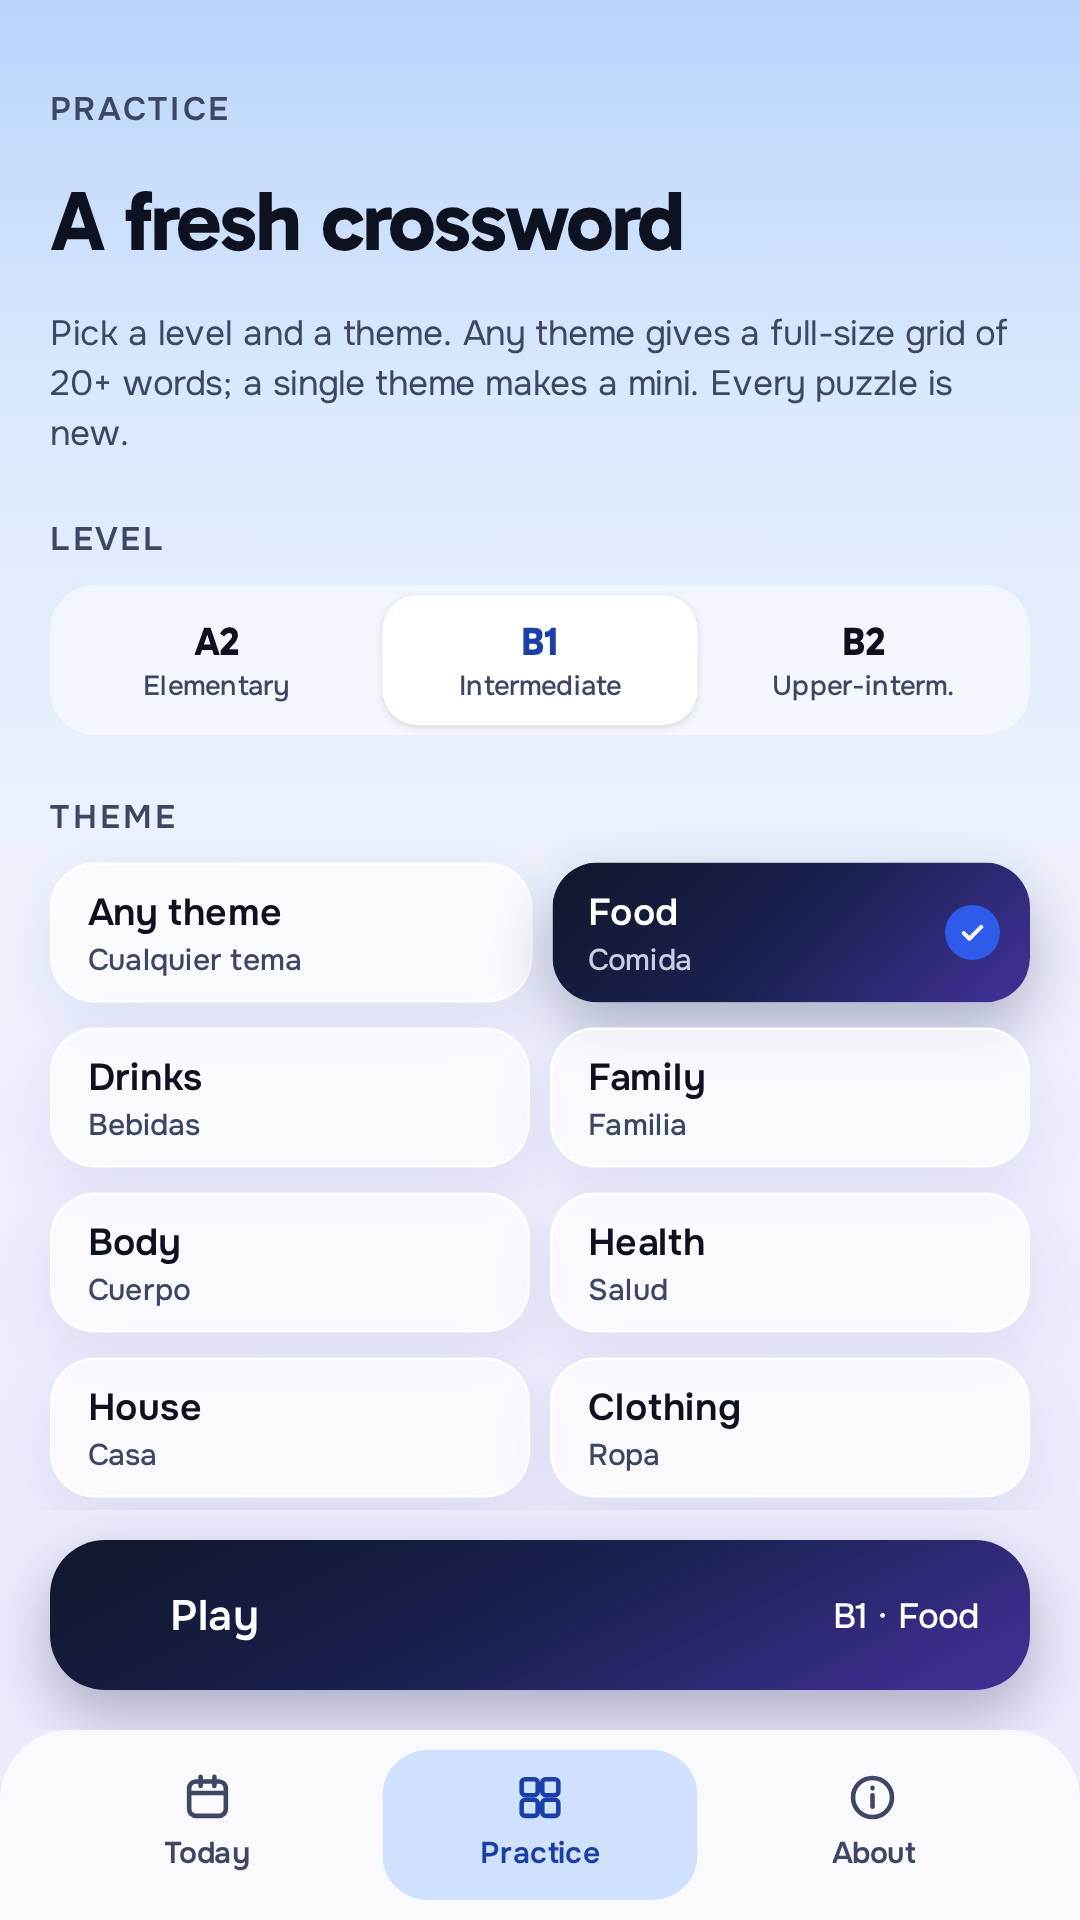
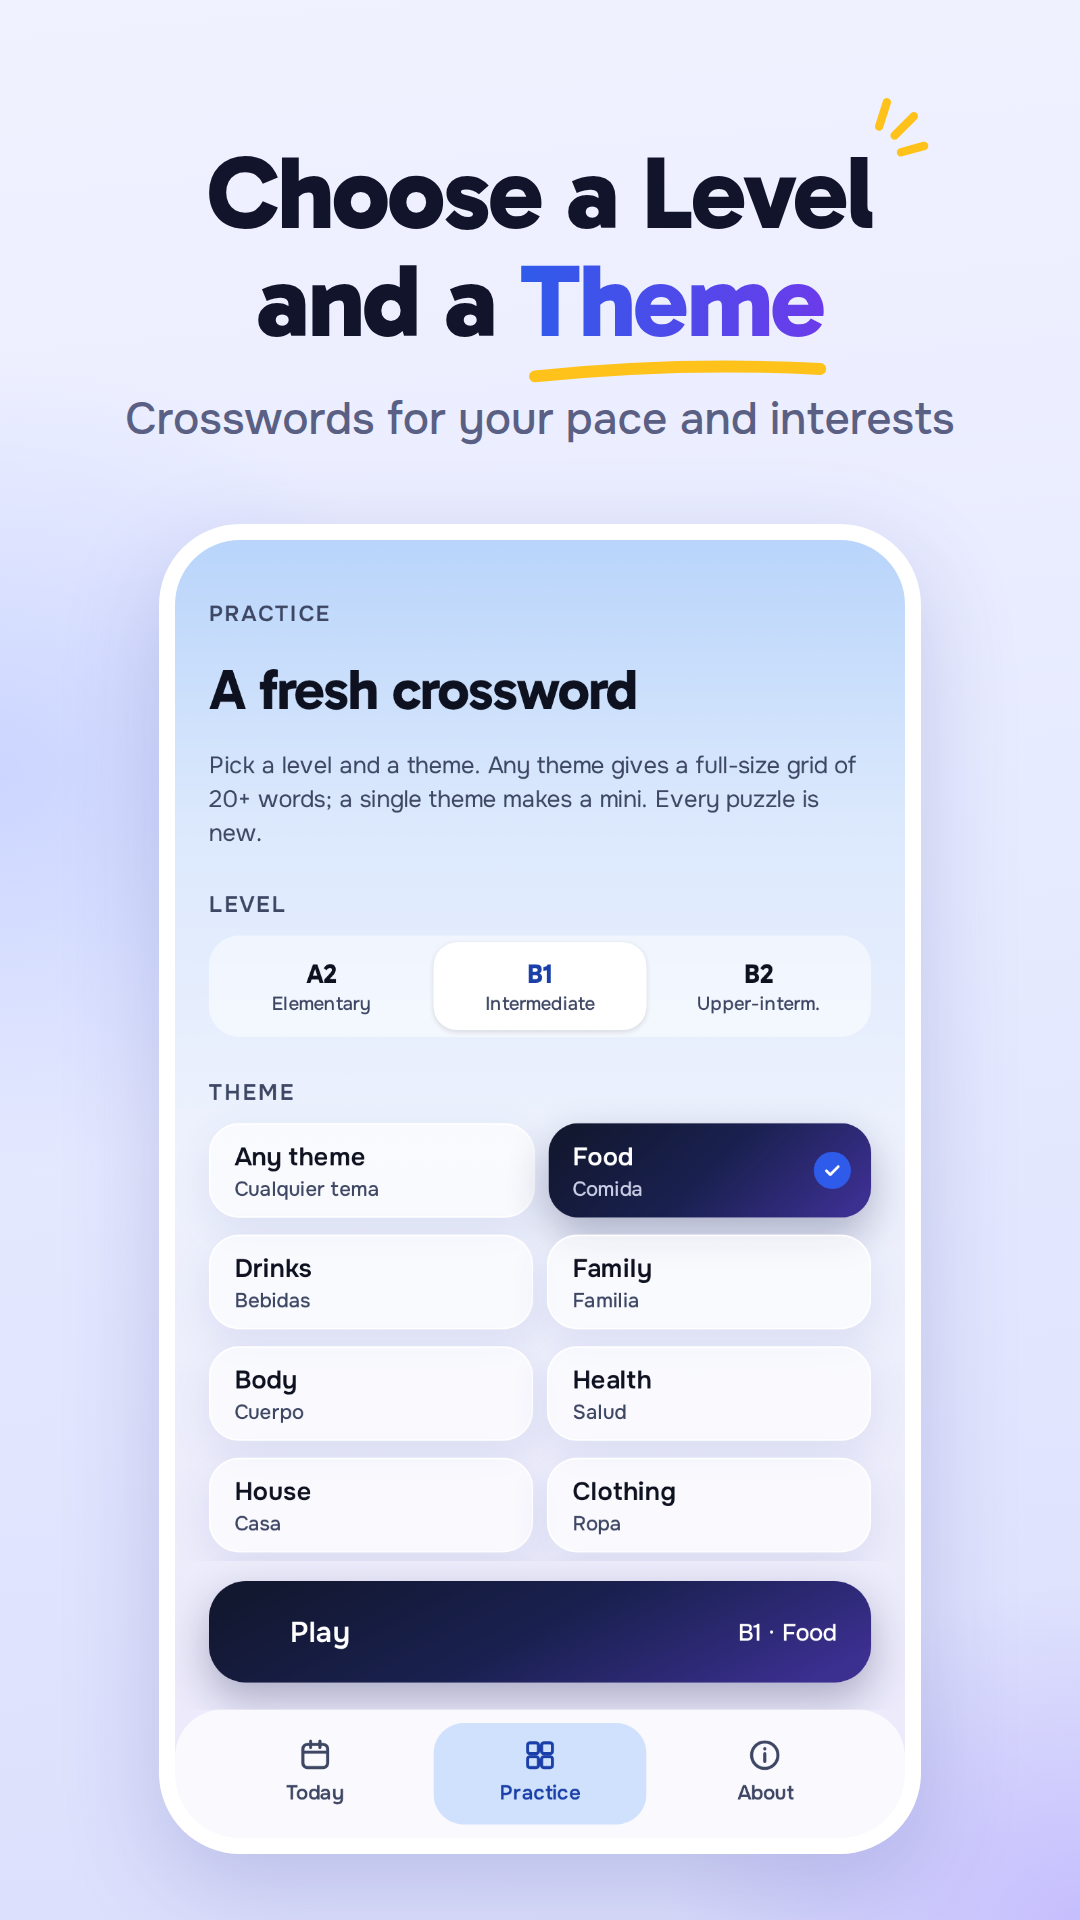
Framed marketing screenshots with headlines (#31)
Headline, subtitle and phone frame around the real captures, rendered
from frame.html at exact store sizes. Raw captures move to raw/.

diff --git a/store/screenshots/frame.html b/store/screenshots/frame.html
@@ -1,0 +1,86 @@
+<!doctype html>
+<html>
+<head>
+<meta charset="utf-8">
+<style>
+  @font-face { font-family: Gabarito; font-weight: 800; src: url(../../node_modules/@expo-google-fonts/gabarito/800ExtraBold/Gabarito_800ExtraBold.ttf); }
+  @font-face { font-family: Onest; font-weight: 500; src: url(../../node_modules/@expo-google-fonts/onest/500Medium/Onest_500Medium.ttf); }
+  * { box-sizing: border-box; }
+  html, body { margin: 0; overflow: hidden; background: #E6EAFF; }
+  body {
+    width: var(--w); height: var(--h);
+    background:
+      radial-gradient(60% 30% at 0% 40%, rgba(167, 186, 255, 0.45), transparent 70%),
+      radial-gradient(55% 25% at 100% 100%, rgba(170, 150, 255, 0.45), transparent 70%),
+      linear-gradient(175deg, #F1F2FF 0%, #E6EAFF 50%, #DCDFFC 100%);
+    display: flex; flex-direction: column; align-items: center;
+    padding-top: calc(var(--u) * 13);
+    font-family: Gabarito, sans-serif;
+  }
+  h1 {
+    position: relative; margin: 0; text-align: center;
+    font-size: calc(var(--u) * 9.6); line-height: 1.04; letter-spacing: -0.02em;
+    color: #12142B;
+  }
+  .hl { position: relative; white-space: nowrap; }
+  .hl b {
+    font-weight: 800;
+    background: linear-gradient(90deg, #2F5BEA, #6B3BEA);
+    -webkit-background-clip: text; background-clip: text; color: transparent;
+  }
+  .swoosh { position: absolute; left: 3%; width: 98%; bottom: -0.2em; height: 0.24em; overflow: visible; }
+  .sparks { position: absolute; right: -0.55em; top: -0.42em; width: 0.62em; height: 0.62em; overflow: visible; }
+  p {
+    margin: calc(var(--u) * 3.2) 0 0; text-align: center; max-width: 82%;
+    font: 500 calc(var(--u) * 4.1)/1.3 Onest, sans-serif; color: #5A6083;
+  }
+  .phone {
+    margin-top: calc(var(--u) * 7);
+    padding: calc(var(--u) * 1.5);
+    background: #fff; border-radius: calc(var(--u) * 7.5);
+    box-shadow: 0 calc(var(--u) * 3) calc(var(--u) * 9) rgba(60, 70, 160, 0.22);
+  }
+  .phone img { display: block; width: auto; border-radius: calc(var(--u) * 6); }
+</style>
+</head>
+<body>
+  <h1 id="title"></h1>
+  <p id="sub"></p>
+  <div class="phone"><img id="shot" alt=""></div>
+<script>
+  const COPY = {
+    1: ['Learn Spanish', 'with', 'Crosswords', 'Fun and effective practice for every level'],
+    2: ['Solve Crosswords', 'to', 'Learn Spanish', 'Practice real words and grow your vocabulary'],
+    3: ['Use Clues', 'and', 'Learn Naturally', 'Clear hints in Spanish with English translations'],
+    4: ['Build Your', '', 'Vocabulary', 'Practice Spanish words and see your progress'],
+    5: ['Choose a Level', 'and a', 'Theme', 'Crosswords for your pace and interests'],
+  };
+  const SIZES = { ios: [1320, 2868], android: [1080, 1920] };
+
+  const q = new URLSearchParams(location.search);
+  const store = q.get('store');
+  const n = q.get('n');
+  const [w, h] = SIZES[store];
+  const [line1, lead, highlight, sub] = COPY[n];
+  const u = w / 100;
+  const root = document.documentElement.style;
+  root.setProperty('--w', w + 'px');
+  root.setProperty('--h', h + 'px');
+  root.setProperty('--u', u + 'px');
+
+  const swoosh = '<svg class="swoosh" viewBox="0 0 100 10" preserveAspectRatio="none"><path d="M2 7 Q 50 1 98 4" stroke="#FFC21A" stroke-width="3.2" fill="none" stroke-linecap="round" vector-effect="non-scaling-stroke" style="stroke-width:calc(var(--u)*1.1)"/></svg>';
+  const sparks = '<svg class="sparks" viewBox="0 0 10 10"><g stroke="#FFC21A" stroke-width="1.3" stroke-linecap="round"><path d="M2.2 4.6 L3.4 0.8"/><path d="M4.6 6 L7.6 3"/><path d="M5.6 8.6 L9.2 7.6"/></g></svg>';
+  document.getElementById('title').innerHTML =
+    `${line1}${sparks}<br>${lead ? lead + ' ' : ''}<span class="hl"><b>${highlight}</b>${swoosh}</span>`;
+  document.getElementById('sub').textContent = sub;
+  const shot = document.getElementById('shot');
+  // The screen fills whatever height the headline leaves, minus the frame and a bottom margin.
+  document.fonts.ready.then(() => {
+    const phone = document.querySelector('.phone');
+    const pad = parseFloat(getComputedStyle(phone).paddingTop);
+    shot.style.height = Math.floor(h - phone.offsetTop - 2 * pad - u * 6) + 'px';
+    shot.src = `raw/${store}-${n}.png`;
+  });
+</script>
+</body>
+</html>

diff --git a/store/screenshots/README.md b/store/screenshots/README.md
@@ -12,14 +12,22 @@ Suggested shots: one per unique screen, no repeats (a dark-mode copy of a screen
 
 Google Play also needs `store/play-icon-512.png` (512 x 512) and `store/play-feature-graphic.png` (1024 x 500), already generated from `assets/icon.svg`.
 
-## Captured set
+## Framed set
+
+The upload files (`ios-N.png`, `android-N.png`) are marketing frames: headline, subtitle and a phone frame around the raw capture in `raw/`. Headlines live in `COPY` in `frame.html`. To rebuild after changing copy or replacing a raw capture:
+
+```bash
+npm run screenshots:frame   # needs Google Chrome (override with CHROME=/path/to/chrome)
+```
+
+## Raw captures (`raw/`)
 
 One shot per unique screen, no repeats. Web dev build in headless Chrome with seeded progress, light mode, iPhone 440x956 @3x and Android 432x768 @2.5x, local date 2026-11-12.
 
-| Screen | iPhone 6.9" (1320x2868) | Android (1080x1920) |
+| # | Headline | Screen |
 |---|---|---|
-| Today: 4-day streak, A2 solved, B1/B2 in progress, Continue practice | `ios-1.png` | `android-1.png` |
-| Crossword: B1 daily mid-solve, clue translated | `ios-2.png` | `android-2.png` |
-| Clues list sheet over the B1 daily | `ios-3.png` | `android-3.png` |
-| Completion card over the solved A2 daily | `ios-4.png` | `android-4.png` |
-| Practice picker, B1 and Food selected | `ios-5.png` | `android-5.png` |
+| 1 | Learn Spanish with Crosswords | Today: 4-day streak, A2 solved, B1/B2 in progress, Continue practice |
+| 2 | Solve Crosswords to Learn Spanish | B1 daily mid-solve, clue translated |
+| 3 | Use Clues and Learn Naturally | Clues list sheet over the B1 daily |
+| 4 | Build Your Vocabulary | Completion card over the solved A2 daily |
+| 5 | Choose a Level and a Theme | Practice picker, B1 and Food selected |
